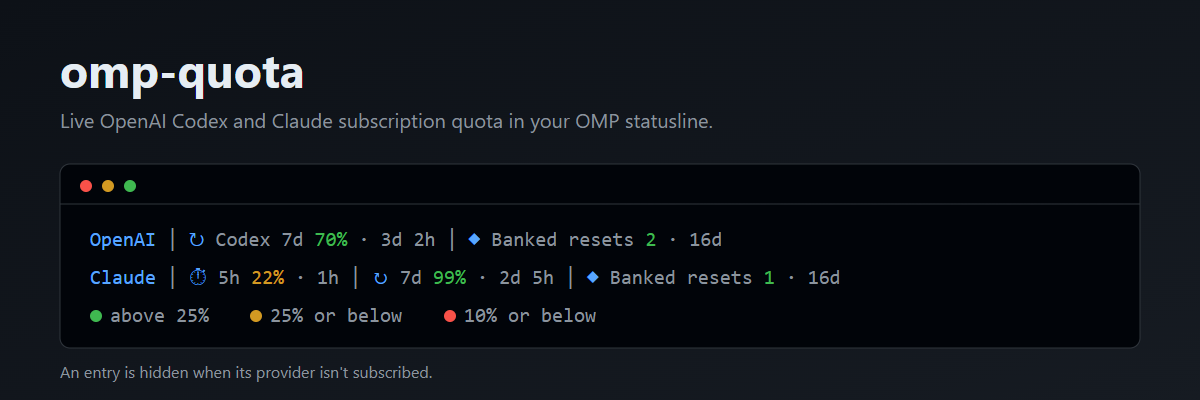
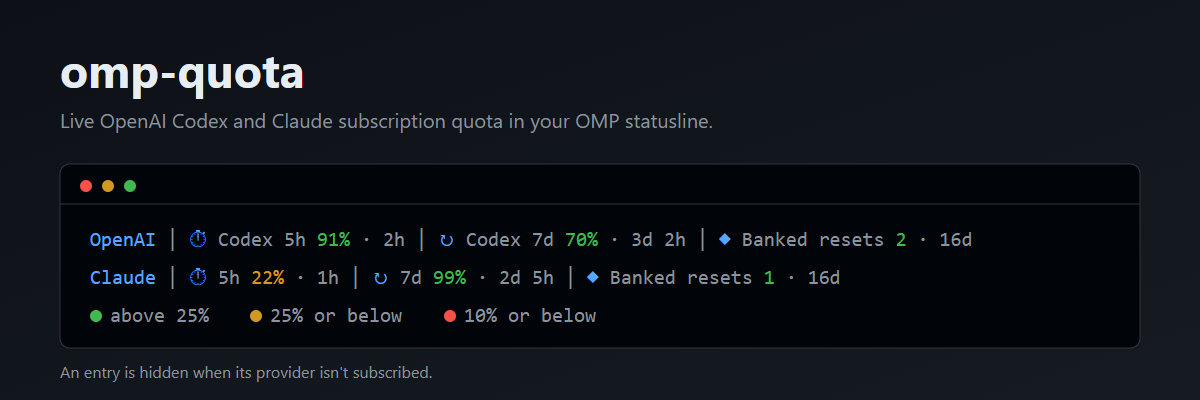
feat: auto-detect Codex 5h limit for plans below Pro

Changed region(s): [[0.1542, 0.57, 0.74, 0.63], [0.7708, 0.57, 0.8325, 0.63]]

diff --git a/agent/extensions/openai-quota.ts b/agent/extensions/openai-quota.ts
@@ -35,6 +35,7 @@ type QuotaWindow = {
 };
 
 type QuotaSnapshot = {
+	codexFiveHour?: QuotaWindow;
 	codexWeekly?: QuotaWindow;
 	bankedResets?: {
 		availableCount: number;
@@ -70,6 +71,9 @@ function toQuotaWindow(limit: UsageLimit | undefined): QuotaWindow | undefined {
 export function parseQuota(response: UsageResponse): QuotaSnapshot | null {
 	const reports = response.reports ?? [];
 	const limits = reports.flatMap(report => report.limits ?? []);
+	const codexFiveHour = toQuotaWindow(
+		limits.find(limit => limit.scope?.windowId === "5h" && !limit.scope?.tier),
+	);
 	const codexWeekly = toQuotaWindow(
 		limits.find(limit => limit.scope?.windowId === "7d" && !limit.scope?.tier),
 	);
@@ -87,8 +91,8 @@ export function parseQuota(response: UsageResponse): QuotaSnapshot | null {
 					expiresAt: expirations.length > 0 ? Math.min(...expirations) : undefined,
 				}
 			: undefined;
-	const quota = { codexWeekly, bankedResets };
-	return quota.codexWeekly || quota.bankedResets ? quota : null;
+	const quota = { codexFiveHour, codexWeekly, bankedResets };
+	return quota.codexFiveHour || quota.codexWeekly || quota.bankedResets ? quota : null;
 }
 
 export function classifyUsage(response: UsageResponse): QuotaResult {
@@ -173,6 +177,7 @@ export default function (pi: ExtensionAPI) {
 			const resetExpiry = formatRemainingTime(bankedResets?.expiresAt);
 			const text = [
 				ctx.ui.theme.fg("accent", "OpenAI"),
+				...(quota.codexFiveHour ? [renderLimit("⏱", "Codex 5h", quota.codexFiveHour)] : []),
 				renderLimit("↻", "Codex 7d", quota.codexWeekly),
 				[
 					ctx.ui.theme.fg("accent", "◆"),

diff --git a/agent/extensions/openai-quota.test.ts b/agent/extensions/openai-quota.test.ts
@@ -29,6 +29,26 @@ describe("parseQuota", () => {
 		});
 	});
 
+	test("auto-detects the untiered 5h window on plans below Pro and ignores tiered 5h limits", () => {
+		const lowerPlan = {
+			reports: [
+				{
+					limits: [
+						{ scope: { windowId: "5h" }, amount: { remaining: 91.4 }, window: { resetsAt: 5000 } },
+						{ scope: { windowId: "5h", tier: "other" }, amount: { remaining: 3 }, window: { resetsAt: 6000 } },
+						{ scope: { windowId: "7d" }, amount: { remaining: 70 }, window: { resetsAt: 7000 } },
+					],
+				},
+			],
+		};
+		expect(parseQuota(lowerPlan)).toEqual({
+			codexFiveHour: { remaining: 91, resetsAt: 5000 },
+			codexWeekly: { remaining: 70, resetsAt: 7000 },
+			bankedResets: undefined,
+		});
+		expect(parseQuota(usage)?.codexFiveHour).toBeUndefined();
+	});
+
 	test("keeps zero banked resets available to render", () => {
 		expect(parseQuota({ reports: [{ resetCredits: { availableCount: 0, credits: [] } }] })).toEqual({
 			bankedResets: { availableCount: 0, expiresAt: undefined },

diff --git a/README.md b/README.md
@@ -6,10 +6,10 @@ OMP statusline extensions showing live subscription quota, one per provider. Ins
 
 | Extension | Provider | Shows |
 |---|---|---|
-| `agent/extensions/openai-quota.ts` | `openai-codex` | Codex 7d, banked resets |
+| `agent/extensions/openai-quota.ts` | `openai-codex` | Codex 5h (when your plan has it, i.e. below Pro), Codex 7d, banked resets |
 | `agent/extensions/anthropic-quota.ts` | `anthropic` (Claude Pro/Max) | 5h, 7d, banked resets |
 
-    OpenAI │ ↻ Codex 7d 70% · 3d 2h │ ◆ Banked resets 2 · 16d
+    OpenAI │ ⏱ Codex 5h 91% · 2h │ ↻ Codex 7d 70% · 3d 2h │ ◆ Banked resets 2 · 16d
     Claude │ ⏱ 5h 95% · 2h │ ↻ 7d 99% · 2d 5h │ ◆ Banked resets 1 · 16d
 
 ## Install
